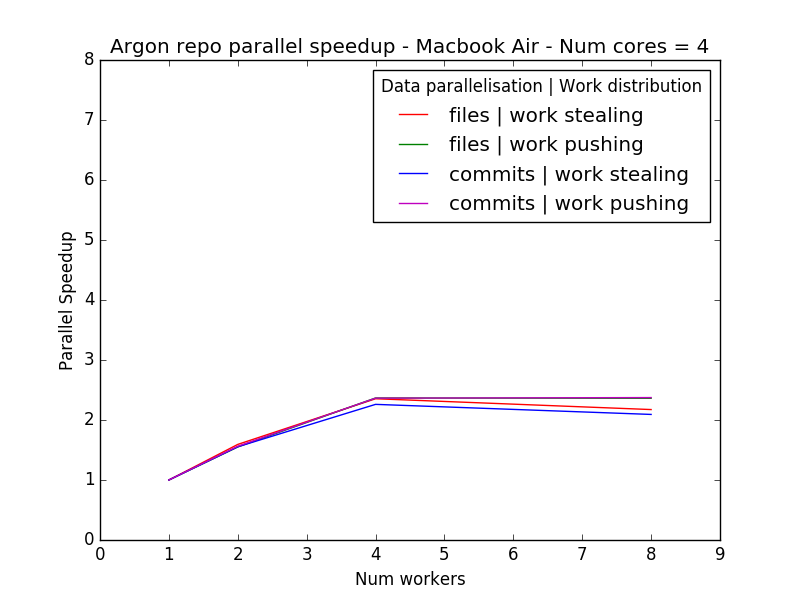
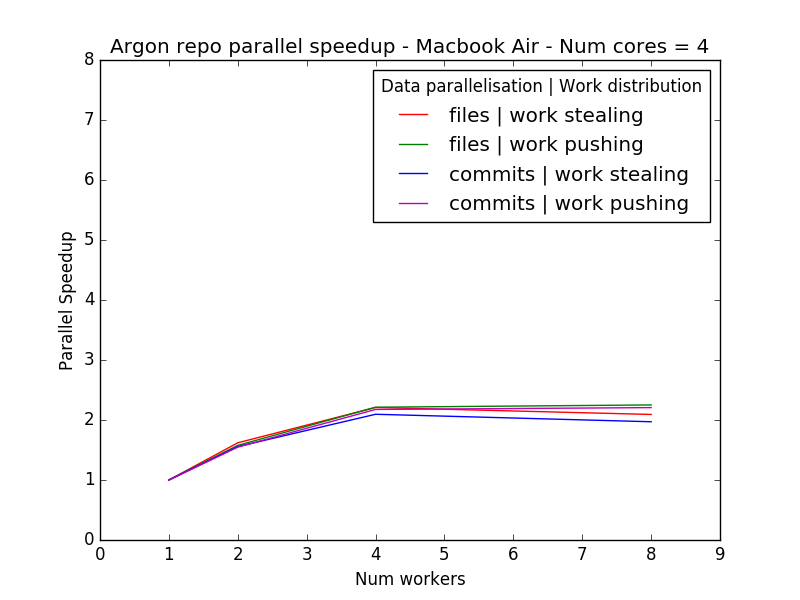
Adding results to doc

Changed region(s): [[0.2812, 0.66, 0.8125, 0.75], [0.25, 0.75, 0.2812, 0.78]]

diff --git a/run_experiments.py b/run_experiments.py
@@ -3,6 +3,7 @@ matplotlib.use('macosx')
 import matplotlib.pyplot as plt
 import numpy as np
 import requests
+import argparse
 
 parser = argparse.ArgumentParser()
 parser.add_argument('--max_workers', type=int, required=True)

diff --git a/README.md b/README.md
@@ -38,6 +38,22 @@ The Message Passing Interface is used to enable point-to-point communication bet
 
 ## Results
 
+I ran experiments with [1,2,4,8] workers and all 4 pairs of work distribution, data distribution strategies.
+
+I measured the cyclomatic complexity of the [Tensorflow Haskell repo](https://github.com/tensorflow/haskell) and the [Argon repo](https://github.com/rubik/argon) itself. These repos have 165 commits and 119 commits respectively and single threaded execution times are approximately 430 seconds and 235 seconds respectively. So there is plenty of opportunity for parallel speedup and substantial benefit from it.
+
+I run these experiments on my available computational resources, a Macbook Air with 4 cores.
+
+I have measured the execution time of these experiments and computed the parallel speedup as the serial execution time/parallel execution time. Below are the results:
+
+![Argon Repo Execution Times on Macbook Air][https://raw.githubusercontent.com/MarkPKCollier/CS4400-assignment-2/master/images/argon_mac.png]
+
+![Argon Repo Parallel Speedup on Macbook Air][https://raw.githubusercontent.com/MarkPKCollier/CS4400-assignment-2/master/images/argon_mac_speedup.png]
+
+![Tensorflow Haskell Repo Execution Times on Macbook Air][https://raw.githubusercontent.com/MarkPKCollier/CS4400-assignment-2/master/images/tensorflow_haskell_mac.png]
+
+![Tensorflow Haskell Repo Parallel Speedup on Macbook Air][https://raw.githubusercontent.com/MarkPKCollier/CS4400-assignment-2/master/images/tensorflow_haskell_mac_speedup.png]
+
 ## Libraries
 
 I use the [Python Flask library](http://flask.pocoo.org/) to implement a lightweight RESTful service.
